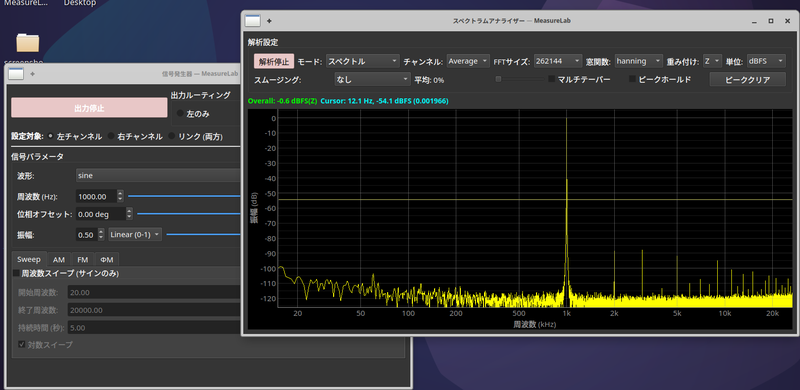
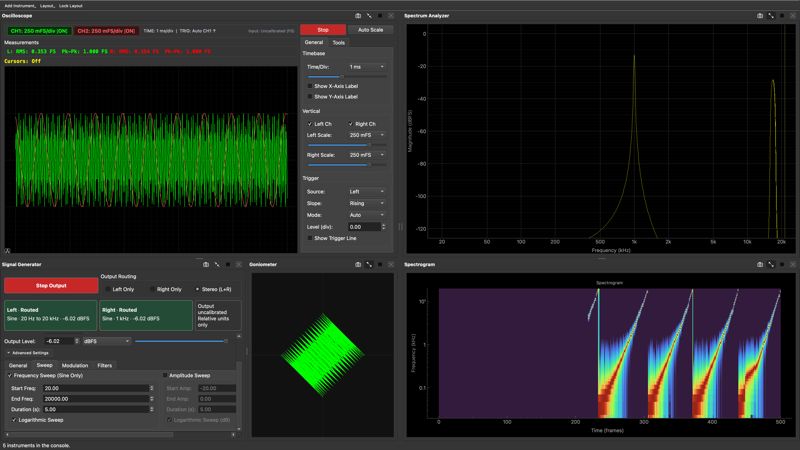
Replace single-row layout with side-by-side instrument columns

diff --git a/src/gui/measurement_console.py b/src/gui/measurement_console.py
@@ -293,9 +293,9 @@ class MeasurementConsoleWindow(QMainWindow):
         self.layout_button.setPopupMode(QToolButton.ToolButtonPopupMode.InstantPopup)
         layout_menu = QMenu(self.layout_button)
 
-        row_action = QAction(tr("Single Row"), layout_menu)
-        row_action.triggered.connect(self.arrange_single_row)
-        layout_menu.addAction(row_action)
+        side_by_side_action = QAction(tr("Side by Side"), layout_menu)
+        side_by_side_action.triggered.connect(self.arrange_side_by_side)
+        layout_menu.addAction(side_by_side_action)
 
         grid_action = QAction(tr("2 x 2 Grid"), layout_menu)
         grid_action.triggered.connect(self.arrange_two_by_two)
@@ -590,16 +590,34 @@ class MeasurementConsoleWindow(QMainWindow):
             self.removeDockWidget(dock)
         return docks
 
-    def arrange_single_row(self) -> None:
+    def arrange_side_by_side(self) -> None:
+        """Arrange instruments in two columns, using tabs beyond two instruments.
+
+        A horizontal split per instrument quickly becomes unusable because each
+        hosted widget contributes its own minimum width.  Keep only two stable
+        comparison panes and distribute further instruments between their tab
+        groups instead (four instruments become two tabs on each side).
+        """
         if self._layout_locked or not self._docks:
             return
         docks = self._prepare_for_preset()
         self.addDockWidget(Qt.DockWidgetArea.LeftDockWidgetArea, docks[0])
-        previous = docks[0]
-        for dock in docks[1:]:
-            self.addDockWidget(Qt.DockWidgetArea.LeftDockWidgetArea, dock)
-            self.splitDockWidget(previous, dock, Qt.Orientation.Horizontal)
-            previous = dock
+
+        if len(docks) >= 2:
+            self.addDockWidget(Qt.DockWidgetArea.RightDockWidgetArea, docks[1])
+
+        column_anchors = docks[:2]
+        for index, dock in enumerate(docks[2:]):
+            anchor = column_anchors[index % len(column_anchors)]
+            area = self.dockWidgetArea(anchor)
+            self.addDockWidget(area, dock)
+            self.tabifyDockWidget(anchor, dock)
+
+        for dock in docks:
+            dock.show()
+        for anchor in column_anchors:
+            anchor.raise_()
+        self._schedule_visible_state_snapshot()
 
     def arrange_two_by_two(self) -> None:
         if self._layout_locked or not self._docks:

diff --git a/tests/logic_verification/gui/test_measurement_console.py b/tests/logic_verification/gui/test_measurement_console.py
@@ -127,6 +127,34 @@ def test_console_hosts_compact_widgets_in_two_columns(qtbot):
     assert sorted(host.returned) == [0, 1, 2, 3]
 
 
+def test_side_by_side_uses_two_tabbed_columns_for_four_instruments(qtbot):
+    host = _ConsoleHostStub([_DummyWrapper() for _ in range(4)])
+    console = MeasurementConsoleWindow(host)
+    for index in range(4):
+        console.add_module(index, arrange=False)
+
+    console.arrange_side_by_side()
+    console.show()
+    qtbot.waitUntil(lambda: all(dock.isVisible() for dock in console._docks.values()))
+
+    assert console.dockWidgetArea(console._docks[0]) is Qt.DockWidgetArea.LeftDockWidgetArea
+    assert console.dockWidgetArea(console._docks[1]) is Qt.DockWidgetArea.RightDockWidgetArea
+    assert console.tabifiedDockWidgets(console._docks[0]) == [console._docks[2]]
+    assert console.tabifiedDockWidgets(console._docks[1]) == [console._docks[3]]
+    console.close()
+
+
+def test_layout_menu_replaces_single_row_with_side_by_side(qapp):
+    host = _ConsoleHostStub([_DummyWrapper()])
+    console = MeasurementConsoleWindow(host)
+
+    action_labels = [action.text() for action in console.layout_button.menu().actions()]
+
+    assert "Side by Side" in action_labels
+    assert "Single Row" not in action_labels
+    console.close()
+
+
 def test_adding_fifth_instrument_preserves_grid_and_tabs_from_left(qtbot, monkeypatch):
     host = _ConsoleHostStub([_DummyWrapper() for _ in range(5)])
     console = MeasurementConsoleWindow(host)
